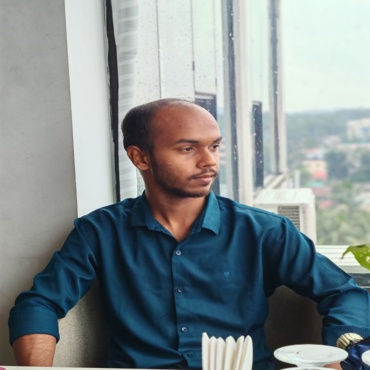
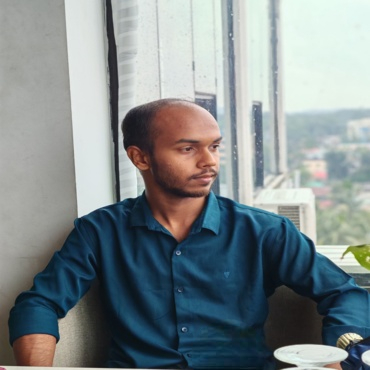
big modification in all files , modify the profile picture, modified home.css files, modified index.html, modified script.js full logic there, modified the style.css file also.

Changed region(s): [[0.5351, 0.8919, 0.6838, 1.0]]

diff --git a/index.html b/index.html
@@ -37,9 +37,20 @@
         <section class="home">
             <div class="details">
                 <h2>Md. Nahid Hasan</h2>
-                <p>Hi, I'm Nahid — a Software Engineering student at SUST and a passionate developer who loves coding, problem solving, and building modern digital experiences. I enjoy exploring web development, competitive programming, and futuristic technologies related to the metaverse.
+                <h3>I'm <span id="typing-span"></span></h3>
+                <p>Hi, I'm Nahid — a Software Engineering student at 
+                    SUST and a passionate developer who loves coding, 
+                    problem solving, and building modern digital 
+                    experiences. I enjoy exploring web development, 
+                    competitive programming, and futuristic technologies 
+                    related to the metaverse.
 
-I regularly practice programming problems on platforms like Codeforces and love turning ideas into real projects through clean and creative development. My goal is to continuously improve my skills and build impactful, user-friendly applications that combine creativity with technology.</p>
+                    I regularly practice programming problems 
+                    on platforms like Codeforces and love turning 
+                    ideas into real projects through clean and 
+                    creative development. My goal is to continuously 
+                    improve my skills and build impactful, user-friendly 
+                    applications that combine creativity with technology.</p>
 
             <div class="social-icons">
 

diff --git a/script.js b/script.js
@@ -1,7 +1,50 @@
-const toggle = document.getElementById('menu-toggle');
+document.addEventListener("DOMContentLoaded", () => {
 
-if(toggle){
-    toggle.addEventListener("change",() => {
-        document.body.classList.toggle("no-scroll", toggle.checked);
-    });
-}
+    const words = [
+        "Coding Enthusiast",
+        "Continuous Learner",
+        "Problem Solver",
+        "Passionate Developer",
+        "Fueled by Curiosity and Code"
+    ];
+
+    const typingText = document.getElementById("typing-span");
+
+    let wordIndex = 0;
+    let charIndex = 0;
+    let isDeleting = false;
+
+    const typeSpeed = 70;
+    const deleteSpeed = 40;
+    const pauseTime = 700;
+
+    function type() {
+        const currentWord = words[wordIndex];
+
+        if (!isDeleting) {
+            typingText.textContent = currentWord.substring(0, charIndex + 1);
+            charIndex++;
+
+            if (charIndex === currentWord.length) {
+                isDeleting = true;
+                setTimeout(type, pauseTime);
+            } else {
+                setTimeout(type, typeSpeed);
+            }
+
+        } else {
+            typingText.textContent = currentWord.substring(0, charIndex - 1);
+            charIndex--;
+
+            if (charIndex === 0) {
+                isDeleting = false;
+                wordIndex = (wordIndex + 1) % words.length;
+                setTimeout(type, 300);
+            } else {
+                setTimeout(type, deleteSpeed);
+            }
+        }
+    }
+
+    if (typingText) type();
+});

diff --git a/home.css b/home.css
@@ -65,6 +65,37 @@
     white-space: nowrap;
 }
 
+.details h3{
+    font-size: 2rem;
+    display: flex;
+    align-items: center;
+    gap: 10px;
+    white-space: nowrap;
+    overflow: hidden;
+}
+
+.details h3 span{
+    color: var(--green);
+    display: inline-block;
+    min-width: 130px;
+    overflow: hidden;
+    white-space: nowrap;
+}
+
+.details h3 span::after{
+    content: "|";
+    margin-left: 5px;
+    animation: blink 0.7s steps(1) infinite;
+}
+
+@keyframes blink{
+    0%, 100%{
+        opacity: 1;
+    } 50%{
+        opacity: 0;
+    }
+}
+
 .details p{
     font-size: 1.3rem;
     text-align: justify;
@@ -91,13 +122,17 @@
         line-height: 1.1;
     }
 
+    .details h3{
+        font-size: 2.5rem;
+    }
+
     .details p{
         font-size: 1.1rem;
     }
 
     .img-container{
         width: 375px;
-        height: 305px;
+        height: 375px;
         flex-shrink: 0;
         margin-left: auto;
     }
@@ -119,6 +154,10 @@
 
     .details h2{
         font-size: clamp(4rem, 6vw, 6rem);
+    }
+
+    .details h3{
+        font-size: 2.8rem;
     }
 
     .details p{

diff --git a/style.css b/style.css
@@ -34,7 +34,7 @@ body.no-scroll{
     padding: 1rem 6%;
     display: flex;
     flex-direction: column;
-    border: 2px solid red;
+    /* border: 2px solid red; */
 }
 
 header{
